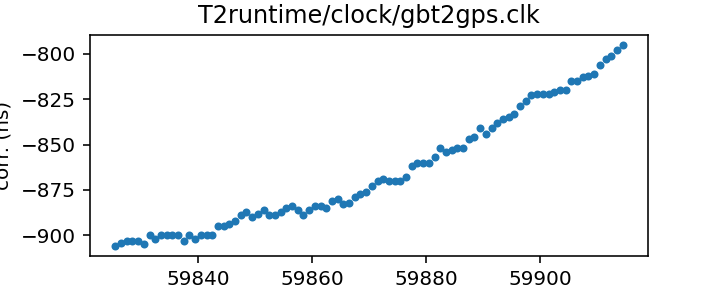
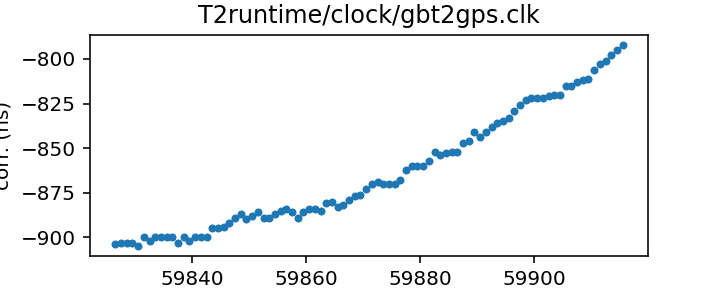
Routine gh-pages update from Github action Sat Dec  3 20:28:32 UTC 2022

diff --git a/status.md b/status.md
@@ -13,17 +13,17 @@ name of each clock file links to a page with more details.
 
 | Name | File | Corrections start | Corrections end | Last check date | Last check result 
 |:--- |:--- | --- | --- | --- |:--- 
-| [GPS to UTC](T2runtime/clock/gps2utc.clk.html) | `T2runtime/clock/gps2utc.clk` | 1993-01-01 MJD 48988.0 | 2022-10-27 MJD 59879.0 | 2022-12-02 | Unchanged 
-| [GPS to UTC (Combined Clock)](T2runtime/clock/gps2utc_cc.clk.html) | `T2runtime/clock/gps2utc_cc.clk` | 1993-01-01 MJD 48988.0 | 2022-10-27 MJD 59879.0 | 2022-12-02 | Unchanged 
-| [GPS to UTC (Corrected)](T2runtime/clock/gps2utc_c0p.clk.html) | `T2runtime/clock/gps2utc_c0p.clk` | 2010-12-29 MJD 55559.0 | 2022-10-27 MJD 59879.0 | 2022-12-02 | Unchanged 
-| [GBT](tempo/clock/time_gbt.dat.html) | `tempo/clock/time_gbt.dat` | 2000-12-31 MJD 51909.5 | 2022-12-01 MJD 59914.5 | 2022-12-02 | Updated 
-| [GBT (TEMPO2 converted from TEMPO)](T2runtime/clock/gbt2gps.clk.html) | `T2runtime/clock/gbt2gps.clk` | 2000-12-31 MJD 51909.5 | 2022-12-01 MJD 59914.5 | 2022-12-02 | Updated 
+| [GPS to UTC](T2runtime/clock/gps2utc.clk.html) | `T2runtime/clock/gps2utc.clk` | 1993-01-01 MJD 48988.0 | 2022-10-27 MJD 59879.0 | 2022-12-03 | Unchanged 
+| [GPS to UTC (Combined Clock)](T2runtime/clock/gps2utc_cc.clk.html) | `T2runtime/clock/gps2utc_cc.clk` | 1993-01-01 MJD 48988.0 | 2022-10-27 MJD 59879.0 | 2022-12-03 | Unchanged 
+| [GPS to UTC (Corrected)](T2runtime/clock/gps2utc_c0p.clk.html) | `T2runtime/clock/gps2utc_c0p.clk` | 2010-12-29 MJD 55559.0 | 2022-10-27 MJD 59879.0 | 2022-12-03 | Unchanged 
+| [GBT](tempo/clock/time_gbt.dat.html) | `tempo/clock/time_gbt.dat` | 2000-12-31 MJD 51909.5 | 2022-12-02 MJD 59915.5 | 2022-12-03 | Updated 
+| [GBT (TEMPO2 converted from TEMPO)](T2runtime/clock/gbt2gps.clk.html) | `T2runtime/clock/gbt2gps.clk` | 2000-12-31 MJD 51909.5 | 2022-12-02 MJD 59915.5 | 2022-12-03 | Updated 
 | [Jodrell Bank](T2runtime/clock/jb2gps.clk.html) | `T2runtime/clock/jb2gps.clk` | 2006-10-13 MJD 54021.4 | 2021-11-03 MJD 59521.0 | 2022-11-30 | Unchanged 
 | [Jodrell Bank Roach](T2runtime/clock/jbroach2jb.clk.html) | `T2runtime/clock/jbroach2jb.clk` | 2006-10-13 MJD 54021.4 | 2018-03-20 MJD 58197.6 | 2022-11-30 | Unchanged 
 | [Jodrell Bank DFB](T2runtime/clock/jbdfb2jb.clk.html) | `T2runtime/clock/jbdfb2jb.clk` | 2006-10-13 MJD 54021.4 | 2017-05-11 MJD 57884.0 | 2022-11-30 | Unchanged 
 | [Meerkat (observatory)](T2runtime/clock/mk2utc_observatory.clk.html) | `T2runtime/clock/mk2utc_observatory.clk` | 2019-01-01 MJD 58484.0 | 2022-11-07 MJD 59891.0 | 2022-11-28 | **Failed to download** 
-| [Leap seconds](tempo/clock/leap.sec.html) | `tempo/clock/leap.sec` | 1972-07-01 MJD 41499.0 | 2017-01-01 MJD 57754.0 | 2022-12-02 | Unchanged 
-| [UT1 table](tempo/clock/ut1.dat.html) | `tempo/clock/ut1.dat` | 1973-01-02 MJD 41684.0 | 2023-12-09 MJD 60287.0 | 2022-12-02 | Unchanged 
+| [Leap seconds](tempo/clock/leap.sec.html) | `tempo/clock/leap.sec` | 1972-07-01 MJD 41499.0 | 2017-01-01 MJD 57754.0 | 2022-12-03 | Unchanged 
+| [UT1 table](tempo/clock/ut1.dat.html) | `tempo/clock/ut1.dat` | 1973-01-02 MJD 41684.0 | 2023-12-09 MJD 60287.0 | 2022-12-03 | Unchanged 
 
 
 

diff --git a/T2runtime/clock/gbt2gps.clk.md b/T2runtime/clock/gbt2gps.clk.md
@@ -23,14 +23,13 @@ If questions arise about the conversion, contact Anne Archibald
 | Format | tempo2 |
 | Bogus last correction | False |
 | Clock file start | 2000-12-31 MJD 51909.5 |
-| Clock file end | 2022-12-01 MJD 59914.5 |
+| Clock file end | 2022-12-02 MJD 59915.5 |
 | Update interval (days) | 1 |
-| Last update attempt | 2022-12-02 |
+| Last update attempt | 2022-12-03 |
 | Last update result | Updated |
 
 Log entries from the last few update attempts:
 ```
-2022-11-23 20:30:46.898 - Updated
 2022-11-24 20:30:28.980 - Updated
 2022-11-25 20:30:38.442 - Updated
 2022-11-26 20:30:01.203 - Updated
@@ -40,12 +39,13 @@ Log entries from the last few update attempts:
 2022-11-30 20:31:22.495 - Updated
 2022-12-01 20:28:53.121 - Updated
 2022-12-02 20:29:10.435 - Updated
+2022-12-03 20:28:11.094 - Updated
 ```
 [Full log](https://raw.githubusercontent.com/ipta/pulsar-clock-corrections/main/log/T2runtime/clock/gbt2gps.clk.log)
 
 Leading comments from clock file:
 
-    # This file was automatically converted from tempo/clock/time_gbt.dat on 2022-12-02 20:29:10.364
+    # This file was automatically converted from tempo/clock/time_gbt.dat on 2022-12-03 20:28:11.023
 
 
 

diff --git a/tempo/clock/time_gbt.dat.md b/tempo/clock/time_gbt.dat.md
@@ -18,14 +18,13 @@ If questions arise, contact Ryan S. Lynch <rlynch@nrao.edu>.
 | Format | tempo |
 | Bogus last correction | False |
 | Clock file start | 2000-12-31 MJD 51909.5 |
-| Clock file end | 2022-12-01 MJD 59914.5 |
+| Clock file end | 2022-12-02 MJD 59915.5 |
 | Update interval (days) | 1 |
-| Last update attempt | 2022-12-02 |
+| Last update attempt | 2022-12-03 |
 | Last update result | Updated |
 
 Log entries from the last few update attempts:
 ```
-2022-11-23 20:30:46.828 - Updated
 2022-11-24 20:30:28.888 - Updated
 2022-11-25 20:30:38.371 - Updated
 2022-11-26 20:30:01.124 - Updated
@@ -35,6 +34,7 @@ Log entries from the last few update attempts:
 2022-11-30 20:31:22.425 - Updated
 2022-12-01 20:28:53.049 - Updated
 2022-12-02 20:29:10.361 - Updated
+2022-12-03 20:28:11.021 - Updated
 ```
 [Full log](https://raw.githubusercontent.com/ipta/pulsar-clock-corrections/main/log/tempo/clock/time_gbt.dat.log)
 

diff --git a/T2runtime/clock/gps2utc_c0p.clk.md b/T2runtime/clock/gps2utc_c0p.clk.md
@@ -30,12 +30,11 @@ about the BIPM's published corrections, contact <tai@bipm.org>.
 | Clock file start | 2010-12-29 MJD 55559.0 |
 | Clock file end | 2022-10-27 MJD 59879.0 |
 | Update interval (days) | 1 |
-| Last update attempt | 2022-12-02 |
+| Last update attempt | 2022-12-03 |
 | Last update result | Unchanged |
 
 Log entries from the last few update attempts:
 ```
-2022-11-23 20:30:46.138 - Unchanged
 2022-11-24 20:30:28.077 - Unchanged
 2022-11-25 20:30:37.428 - Unchanged
 2022-11-26 20:30:00.004 - Unchanged
@@ -45,6 +44,7 @@ Log entries from the last few update attempts:
 2022-11-30 20:31:21.685 - Unchanged
 2022-12-01 20:28:52.238 - Unchanged
 2022-12-02 20:29:10.035 - Unchanged
+2022-12-03 20:28:10.703 - Unchanged
 ```
 [Full log](https://raw.githubusercontent.com/ipta/pulsar-clock-corrections/main/log/T2runtime/clock/gps2utc_c0p.clk.log)
 

diff --git a/T2runtime/clock/gps2utc_cc.clk.md b/T2runtime/clock/gps2utc_cc.clk.md
@@ -29,12 +29,11 @@ about the BIPM's published corrections, contact <tai@bipm.org>.
 | Clock file start | 1993-01-01 MJD 48988.0 |
 | Clock file end | 2022-10-27 MJD 59879.0 |
 | Update interval (days) | 1 |
-| Last update attempt | 2022-12-02 |
+| Last update attempt | 2022-12-03 |
 | Last update result | Unchanged |
 
 Log entries from the last few update attempts:
 ```
-2022-11-23 20:30:46.127 - Unchanged
 2022-11-24 20:30:28.057 - Unchanged
 2022-11-25 20:30:37.416 - Unchanged
 2022-11-26 20:29:59.993 - Unchanged
@@ -44,6 +43,7 @@ Log entries from the last few update attempts:
 2022-11-30 20:31:21.674 - Unchanged
 2022-12-01 20:28:52.226 - Unchanged
 2022-12-02 20:29:10.023 - Unchanged
+2022-12-03 20:28:10.692 - Unchanged
 ```
 [Full log](https://raw.githubusercontent.com/ipta/pulsar-clock-corrections/main/log/T2runtime/clock/gps2utc_cc.clk.log)
 

diff --git a/T2runtime/clock/gps2utc.clk.md b/T2runtime/clock/gps2utc.clk.md
@@ -32,12 +32,11 @@ about the BIPM's published corrections, contact <tai@bipm.org>.
 | Clock file start | 1993-01-01 MJD 48988.0 |
 | Clock file end | 2022-10-27 MJD 59879.0 |
 | Update interval (days) | 1 |
-| Last update attempt | 2022-12-02 |
+| Last update attempt | 2022-12-03 |
 | Last update result | Unchanged |
 
 Log entries from the last few update attempts:
 ```
-2022-11-23 20:30:46.094 - Unchanged
 2022-11-24 20:30:28.014 - Unchanged
 2022-11-25 20:30:37.380 - Unchanged
 2022-11-26 20:29:59.959 - Unchanged
@@ -47,6 +46,7 @@ Log entries from the last few update attempts:
 2022-11-30 20:31:21.641 - Unchanged
 2022-12-01 20:28:52.193 - Unchanged
 2022-12-02 20:29:09.989 - Unchanged
+2022-12-03 20:28:10.660 - Unchanged
 ```
 [Full log](https://raw.githubusercontent.com/ipta/pulsar-clock-corrections/main/log/T2runtime/clock/gps2utc.clk.log)
 

diff --git a/tempo/clock/leap.sec.md b/tempo/clock/leap.sec.md
@@ -21,12 +21,11 @@ If there are any questions, contact Anne Archibald
 | File start | 1972-07-01 MJD 41499.0 |
 | File end | 2017-01-01 MJD 57754.0 |
 | Update interval (days) | 0 |
-| Last update attempt | 2022-12-02 |
+| Last update attempt | 2022-12-03 |
 | Last update result | Unchanged |
 
 Log entries from the last few update attempts:
 ```
-2022-11-23 20:30:52.971 - Unchanged
 2022-11-24 20:30:35.340 - Unchanged
 2022-11-25 20:30:38.478 - Unchanged
 2022-11-26 20:30:01.256 - Unchanged
@@ -36,5 +35,6 @@ Log entries from the last few update attempts:
 2022-11-30 20:31:27.867 - Unchanged
 2022-12-01 20:29:04.331 - Unchanged
 2022-12-02 20:29:10.471 - Unchanged
+2022-12-03 20:28:11.127 - Unchanged
 ```
 [Full log](https://raw.githubusercontent.com/ipta/pulsar-clock-corrections/main/log/tempo/clock/leap.sec.log)

diff --git a/tempo/clock/ut1.dat.md b/tempo/clock/ut1.dat.md
@@ -30,12 +30,11 @@ If there are any questions, contact Anne Archibald
 | File start | 1973-01-02 MJD 41684.0 |
 | File end | 2023-12-09 MJD 60287.0 |
 | Update interval (days) | 0 |
-| Last update attempt | 2022-12-02 |
+| Last update attempt | 2022-12-03 |
 | Last update result | Unchanged |
 
 Log entries from the last few update attempts:
 ```
-2022-11-23 20:31:02.525 - Unchanged
 2022-11-24 20:30:45.516 - Updated
 2022-11-25 20:30:51.122 - Unchanged
 2022-11-26 20:30:14.106 - Unchanged
@@ -45,5 +44,6 @@ Log entries from the last few update attempts:
 2022-11-30 20:31:38.833 - Unchanged
 2022-12-01 20:29:14.250 - Updated
 2022-12-02 20:29:18.675 - Unchanged
+2022-12-03 20:28:18.825 - Unchanged
 ```
 [Full log](https://raw.githubusercontent.com/ipta/pulsar-clock-corrections/main/log/tempo/clock/ut1.dat.log)
